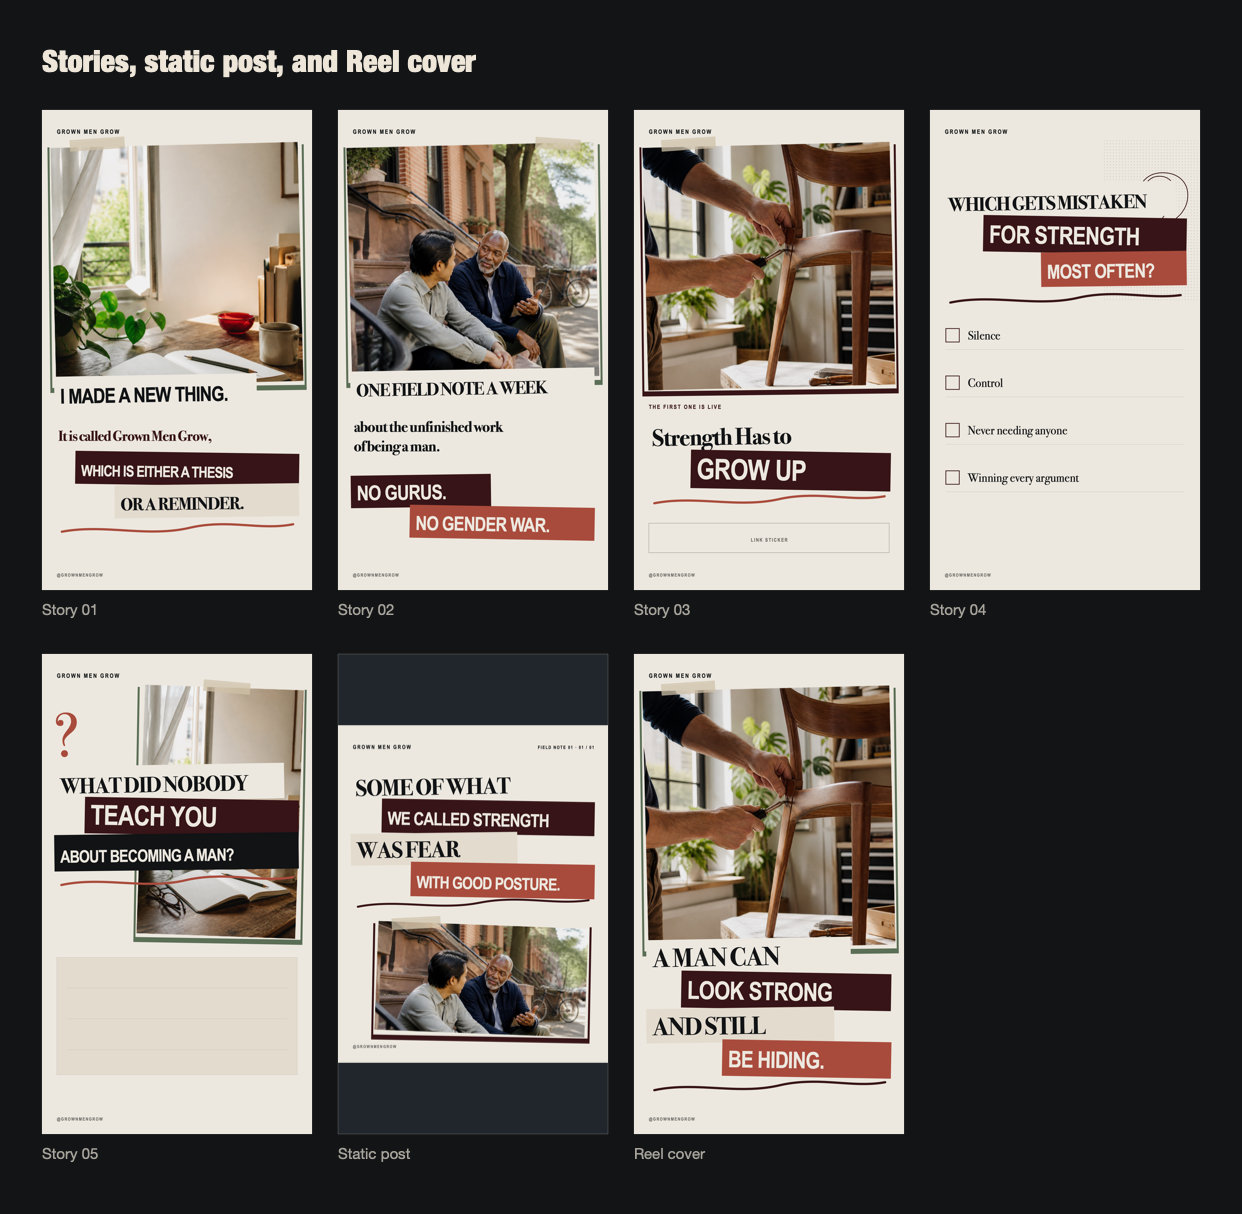
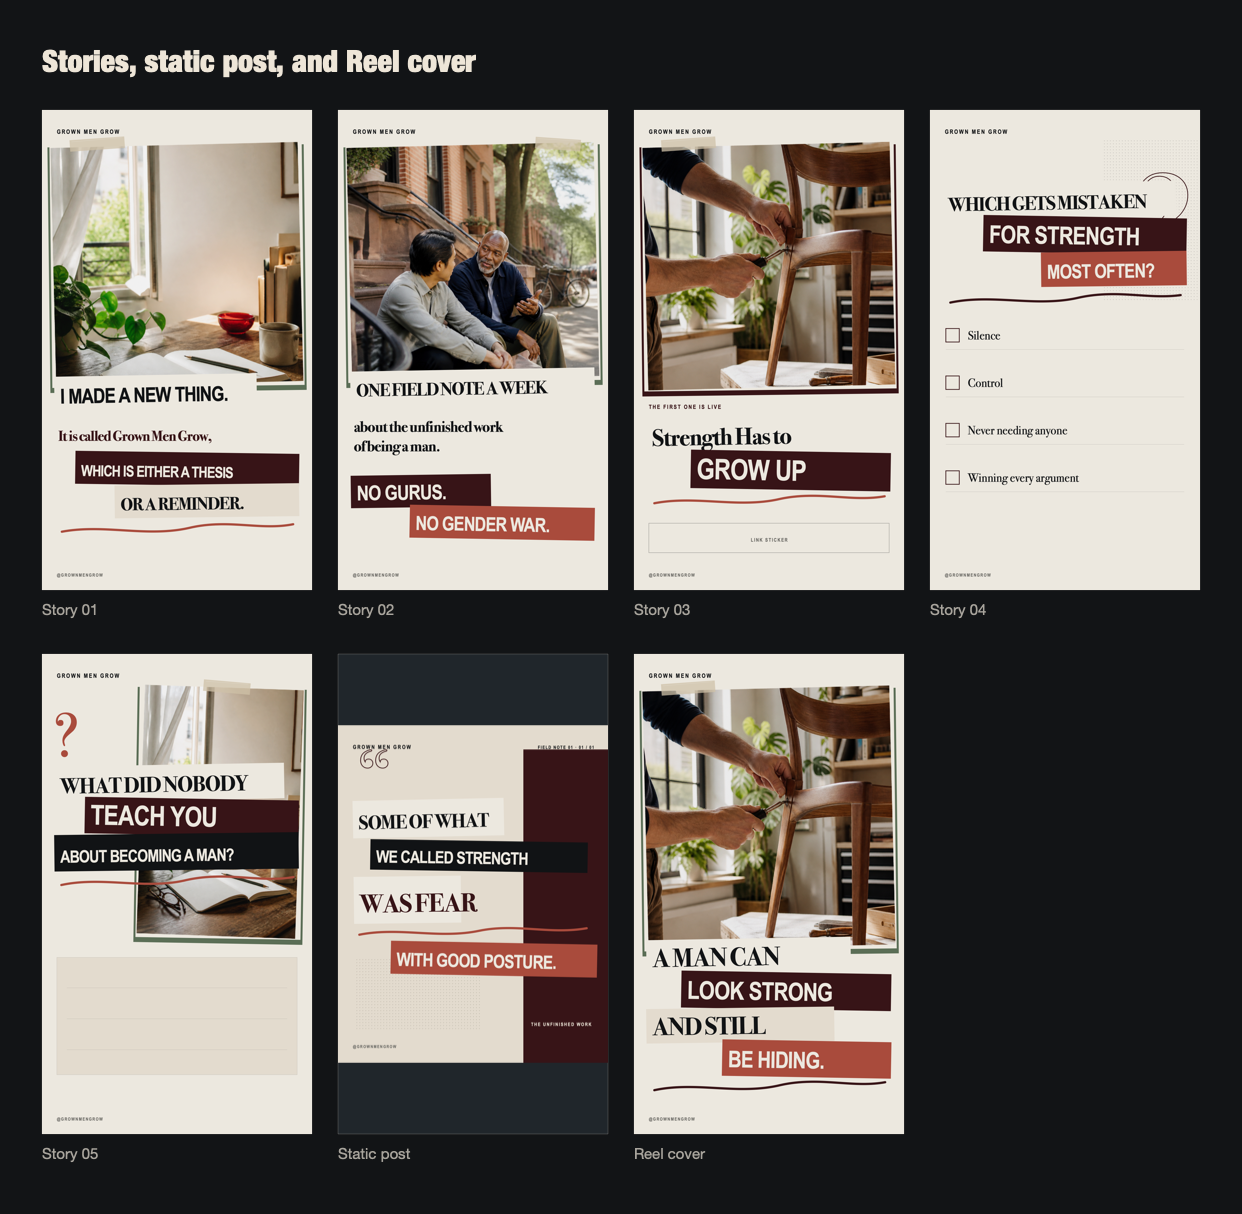
fix(assets): rebuild the static post type-only; gate single-image feed posts (#94)
The first correction was too narrow and the founder caught it on the live
feed. It swapped to friends-in-conversation.png because no other grid
COVER used that photograph — but a reader sees every slide, and it was
already on the feed four times inside the pinned introduction and both
carousels.

No photograph would have worked. Essay 1 has three, the per-article rule
confines the launch set to those three, and across the four posted
assets each one already appears five times. A single-image post carved
out of that set repeats by construction.

So the post carries no photograph. That is the Marginalia treatment the
visual system already defines, and three posted slides are already
type-only. Approved copy is untouched.

New gate: a single-asset 1080x1350 feed post must carry no photograph,
or one appearing in no other asset. Carousels are exempt — a carousel is
one narrative unit. Proved by reinstating the defect, which fails naming
the photograph and all four families it appears in.

The gate deliberately does not extend the same-rectangle test to every
slide: 13 pairs of approved, already-published launch slides sit at 0.85
or above and several at 0.99. Enforcing that would mean re-cutting
published artwork or neutering the check. Recorded in the decision log
instead.

Changed region(s): [[0.2754, 0.6096, 0.4895, 0.8839]]

diff --git a/docs/technical/decision-log.md b/docs/technical/decision-log.md
@@ -570,3 +570,13 @@
 - **`KNOWN_TILE_REPEATS` is now empty, and that is the point.** The morning's entry existed because the artwork was the founder's to change and an unattended task should not have changed it. With the authorisation given, the honest fix removes the collision rather than recording it forever. The gate passes with no exception at all, which is a stronger state than passing with one.
 - **Deletion of the live post was not performed and cannot be.** Instagram's Graph API exposes no endpoint for deleting published media, and Buffer can only remove its own queue records, so the action is app-only regardless. It is also an irreversible deletion of published content along with its engagement history — the kind of action this repository's agents hand back to the founder rather than take. The replacement post is built and verified; posting it before the original is removed would put two versions in the grid at once, so the order is founder deletes, then the repost fires.
 - **Docs rode along.** `content/instagram/launch-package.md` carried alt text describing the old composition; corrected in the same change set.
+
+## 2026-08-16 — the repeat was not fixed the first time, and the reason is structural
+
+- **Status:** Founder caught the second failure on the live feed: "This is not fixed. The new repost uses another repeated image. Is this because we are still posting about the same essay?" Yes — and the diagnosis below is the answer.
+- **Why every option was a repeat.** Essay 1 has exactly three photographs, and the per-article rule confines everything derived from Essay 1 to those three. Across the four posted Instagram assets — pinned introduction, foundational carousel, recognition carousel, static post — there are 22 slides, 15 carrying a photograph, and **each of the three photographs appears exactly five times**. A single-image post carved out of that set repeats by construction. There was no photograph available that would not have been a repeat.
+- **The first fix reasoned about the wrong surface.** It swapped to `friends-in-conversation.png` because no other grid *cover* used it. A reader sees every slide, not just the tile, and that photograph was already on the feed four times inside the pinned introduction and both carousels. The gate matched the reasoning and was therefore also too narrow.
+- **The correction.** The static post now carries no photograph at all. That is the Marginalia treatment the visual system already defines — "typographic, spare, abrupt scale shifts, no required photograph" — and three of the launch set's posted slides are already type-only, so it is an established register rather than a retreat. Approved copy is untouched.
+- **The gate now covers the real failure mode.** A single-asset 1080×1350 feed post must carry no photograph, or one appearing in no other asset. Proved by reinstating the defect: it fails naming the photograph and all four families it already appears in, then passes once restored. Carousels are exempt because a carousel is one narrative unit that may reuse its own article's photography; stories and Reel covers are a different surface.
+- **What the gate deliberately does NOT do, and why that is honest.** Extending the same-rectangle test from covers to every slide would fail the repository on founder-approved, already-published artwork: 13 pairs of existing launch-set slides sit at or above 0.85 overlap and several at 0.99. Enforcing that would mean either re-cutting approved published work or filling the exception set with 21 entries, which would defeat the point. The condition is recorded here rather than enforced by a check that would have to be neutered to pass.
+- **The structural remedy is not a gate.** This stops mattering when posts stop being carved out of one essay's three photographs. Field Note 2 publishes 2026-08-18 with photography of its own, and every field note since has its own set. The alternative remedy — generating a fourth photograph for Essay 1, which the per-article rule permits since the library only grows — is blocked on the ChatGPT-to-disk problem recorded the same day.

diff --git a/AGENTS.md b/AGENTS.md
@@ -46,7 +46,7 @@ Run these before committing material changes:
 6. `bash scripts/verify-svg-xml.sh`
 7. Review `git diff --check` and the complete staged file list.
 
-CI repeats the Ghost theme, repository, and SVG verification. The repository check also enforces feed-tile distinctness (added 2026-08-16 after a repeat reached the Instagram grid): no two grid-facing assets may place the same source photograph in effectively the same frame. Known pairs may be recorded in `KNOWN_TILE_REPEATS` with a stated reason, one pair per entry; it is currently empty and an entry there means a repeat somebody decided to live with, not one somebody fixed. Security workflows run Semgrep, secret scanning, and an OSV dependency scan of `theme/pnpm-lock.yaml` that fails on any known vulnerability. Accepted risks live in the root `osv-scanner.toml`, each with a stated rationale and an expiry date; the file sits at the root rather than beside the lockfile because every tracked file under `theme/` ships inside the published theme zip. One entry is live: extract-zip 2.0.1 (GHSA-jmr9-qjv8-65gv), expiring 2026-11-09, at which point the gate fails again and the risk must be re-accepted on that day's facts. An advisory Claude review runs on every same-repo PR via `claude-review.yml`, which deliberately calls the fleet reusable at `@main` — one merge updates every repo. It activates only when the `CLAUDE_CODE_OAUTH_TOKEN` secret is present — reviews bill the owner's Claude subscription, not Console credits; fork PRs never receive secrets, so they skip it by security design. The unused root `vercel.json` is retained solely because it is a fleet-conformance artifact; it is not the publication's hosting configuration.
+CI repeats the Ghost theme, repository, and SVG verification. The repository check also enforces feed-tile distinctness (added 2026-08-16 after a repeat reached the Instagram grid): no two grid-facing assets may place the same source photograph in effectively the same frame. Known pairs may be recorded in `KNOWN_TILE_REPEATS` with a stated reason, one pair per entry; it is currently empty and an entry there means a repeat somebody decided to live with, not one somebody fixed. A second rule covers the case the first one missed: a single-asset 1080x1350 feed post must carry no photograph, or one that appears in no other asset, because a one-image post has no sequence to carry it. Carousels, stories, and Reel covers are exempt by design. Security workflows run Semgrep, secret scanning, and an OSV dependency scan of `theme/pnpm-lock.yaml` that fails on any known vulnerability. Accepted risks live in the root `osv-scanner.toml`, each with a stated rationale and an expiry date; the file sits at the root rather than beside the lockfile because every tracked file under `theme/` ships inside the published theme zip. One entry is live: extract-zip 2.0.1 (GHSA-jmr9-qjv8-65gv), expiring 2026-11-09, at which point the gate fails again and the risk must be re-accepted on that day's facts. An advisory Claude review runs on every same-repo PR via `claude-review.yml`, which deliberately calls the fleet reusable at `@main` — one merge updates every repo. It activates only when the `CLAUDE_CODE_OAUTH_TOKEN` secret is present — reviews bill the owner's Claude subscription, not Console credits; fork PRs never receive secrets, so they skip it by security design. The unused root `vercel.json` is retained solely because it is a fleet-conformance artifact; it is not the publication's hosting configuration.
 
 ## Shared handoff log
 

diff --git a/content/instagram/launch-package.md b/content/instagram/launch-package.md
@@ -325,7 +325,7 @@ Enter alt text per carousel image where Instagram exposes the control. Preserve 
 
 ### Static post
 
-**Layered cream, oxblood, and rust type stack reading “Some of what we called strength was fear with good posture,” above a taped photograph of two adult male friends talking on sunlit front steps.**
+**Typographic card with no photograph: an oxblood panel down the right edge, a large outlined quotation mark, and four layered cream, ink, and rust type blocks reading “Some of what we called strength was fear with good posture.”**
 
 ### Reel cover
 
